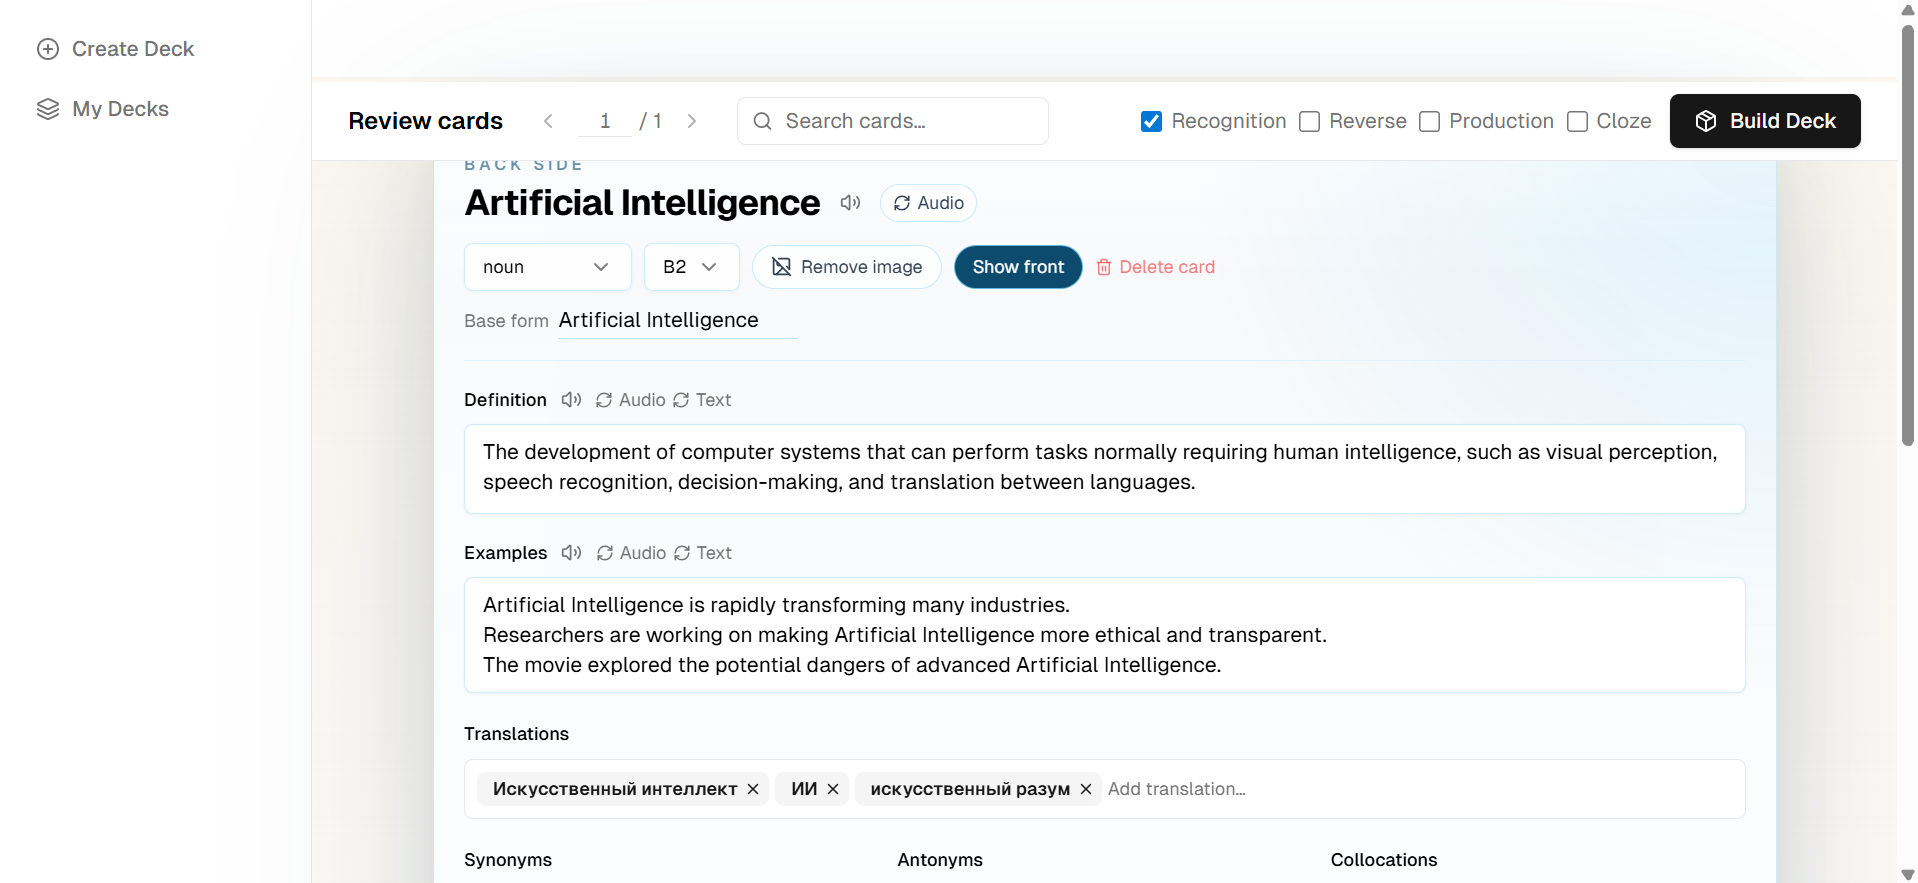
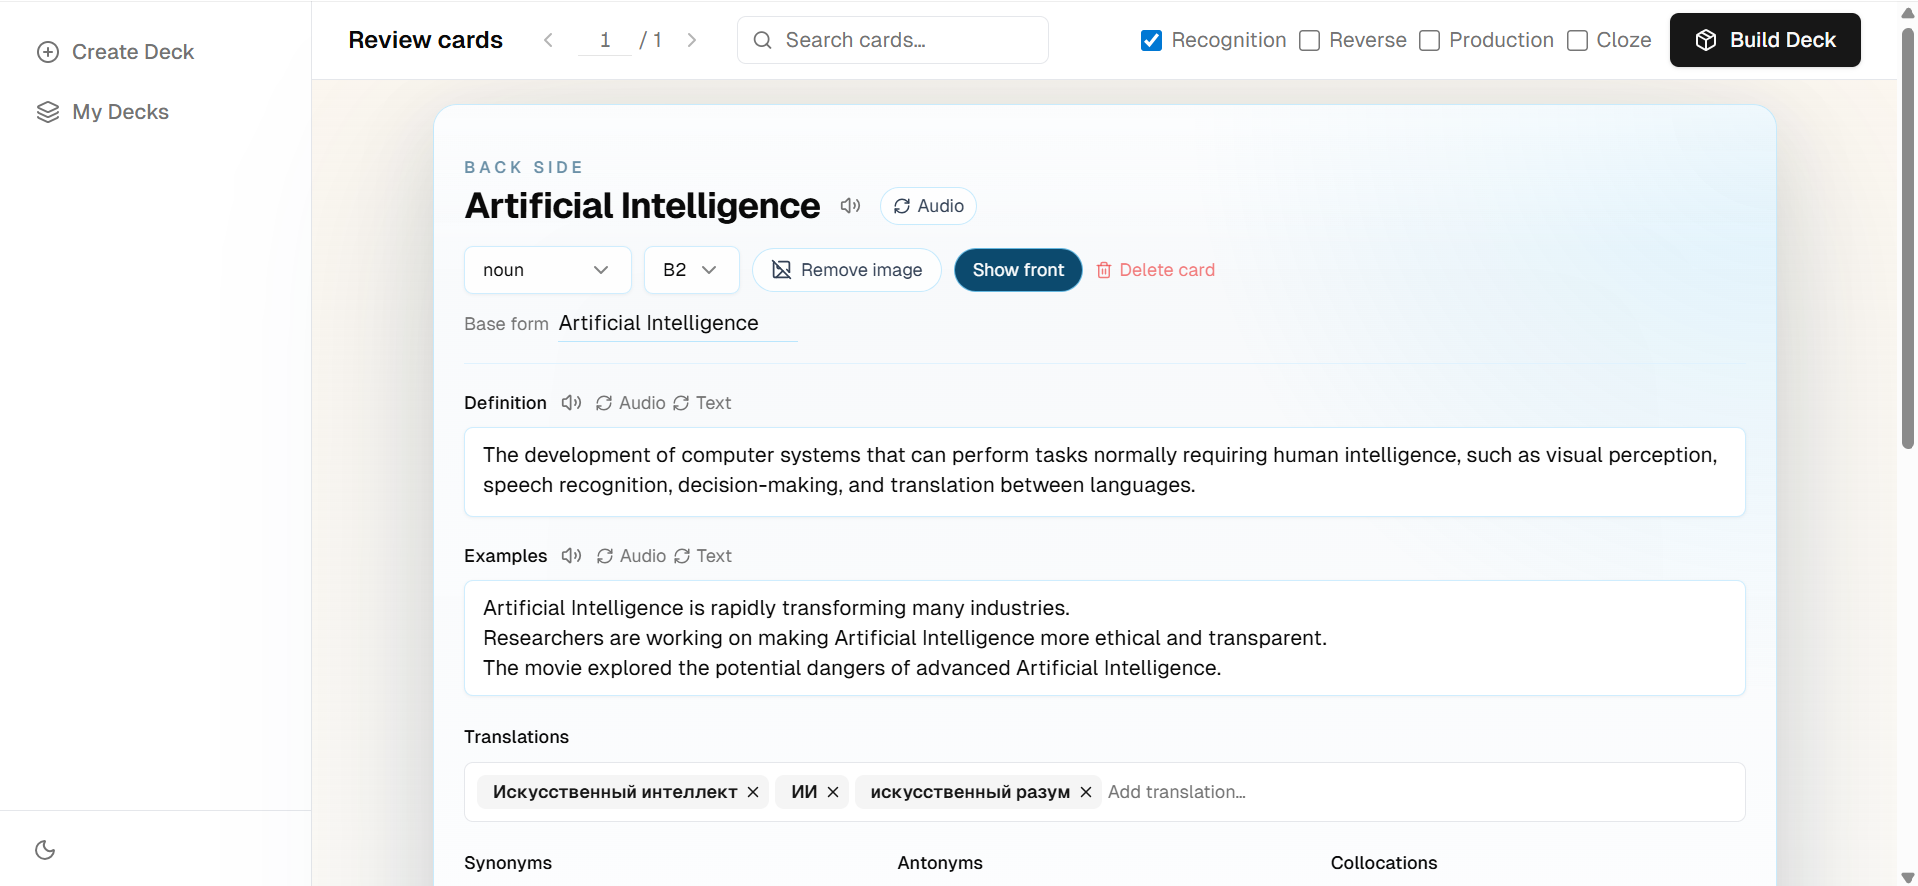
docs: refresh app screenshots

diff --git a/README.md b/README.md
@@ -37,6 +37,10 @@ Back:
 
 ![Example card back](docs/demo/example-card-back.png)
 
+Back, continued:
+
+![Example card back continued](docs/demo/example-card-back-2.png)
+
 ## Requirements
 
 - Git
